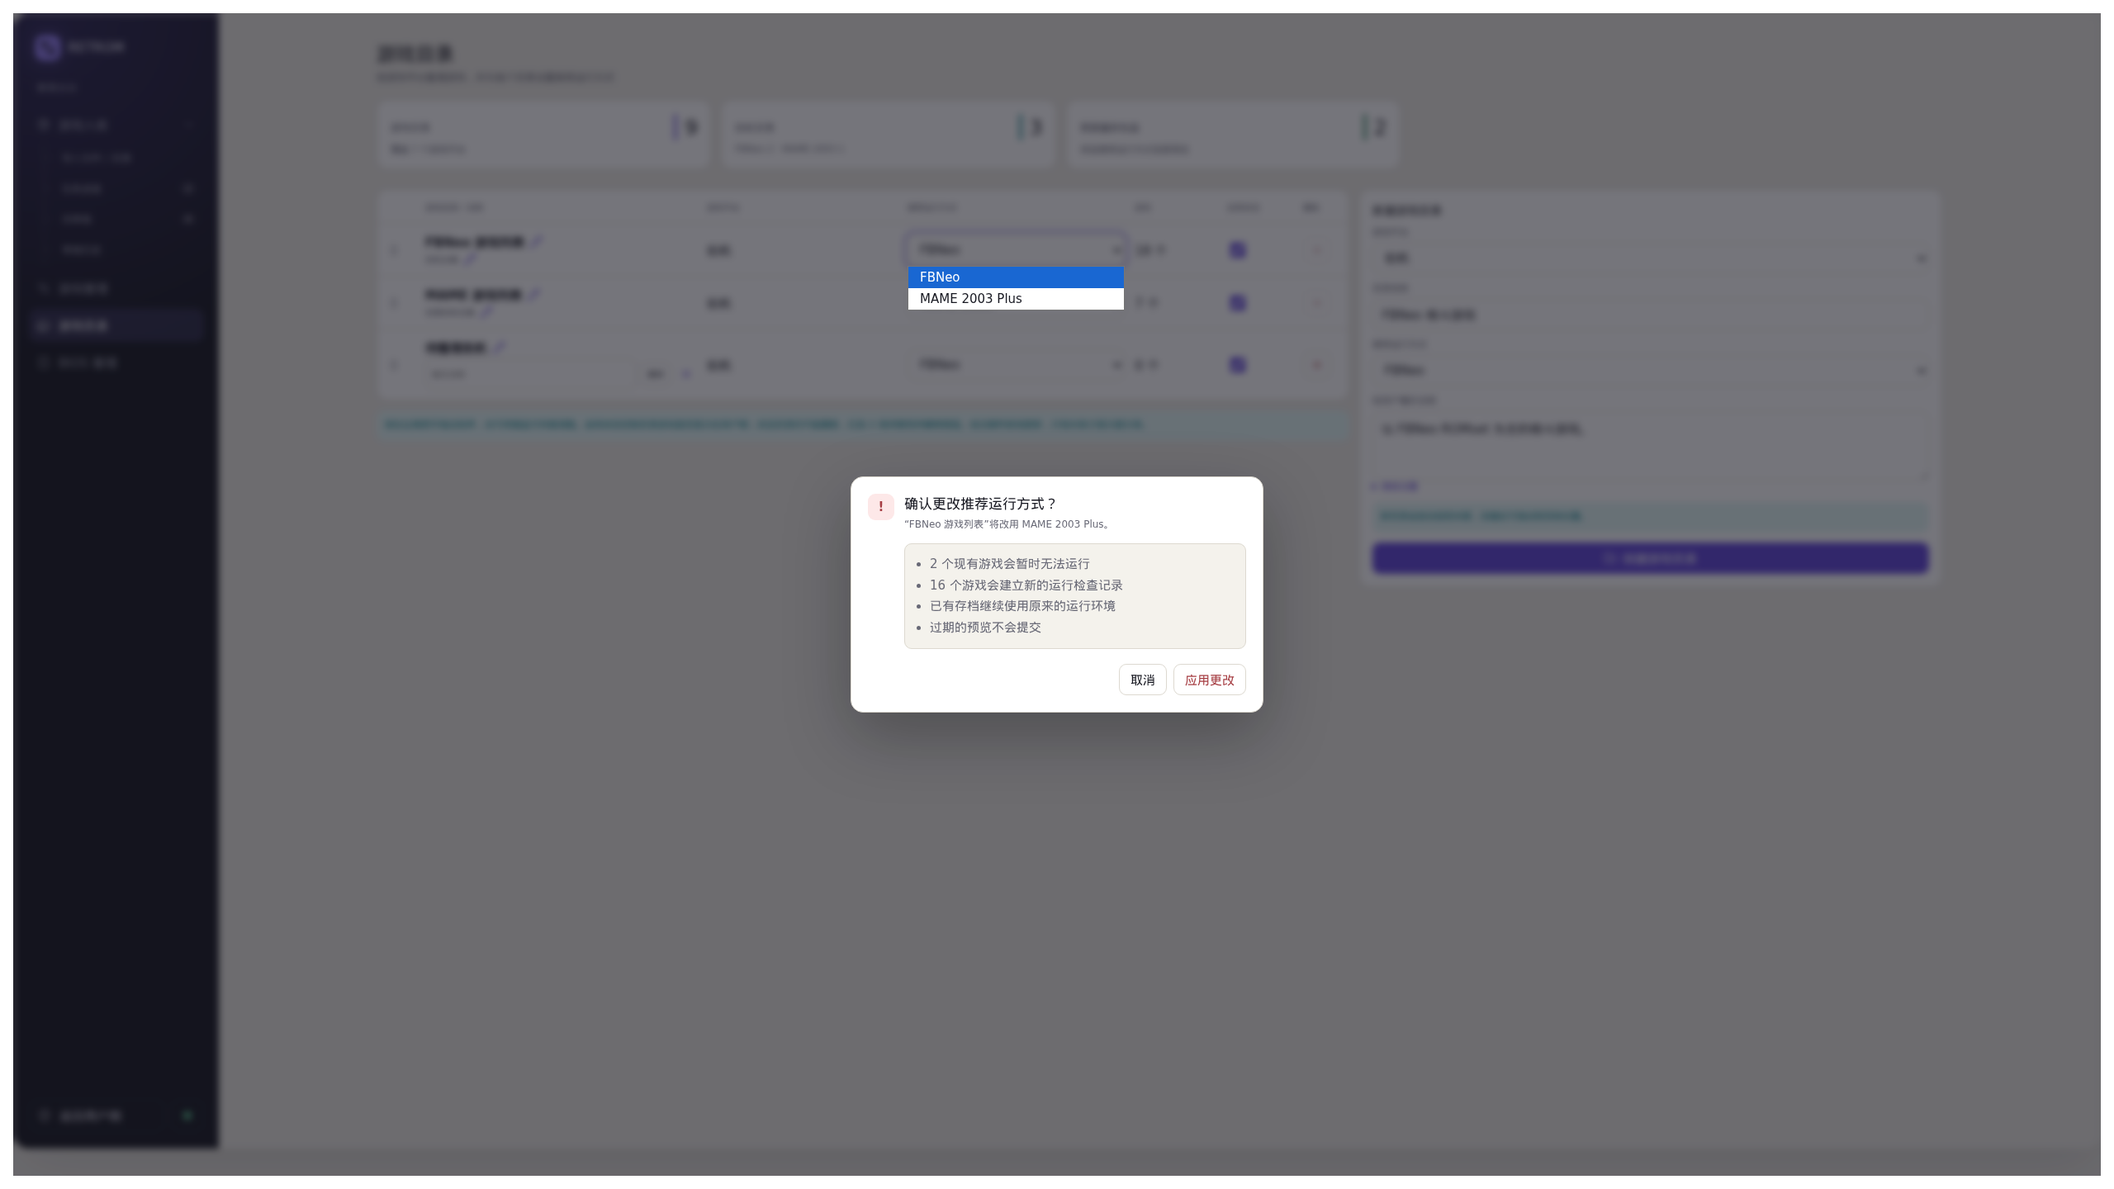
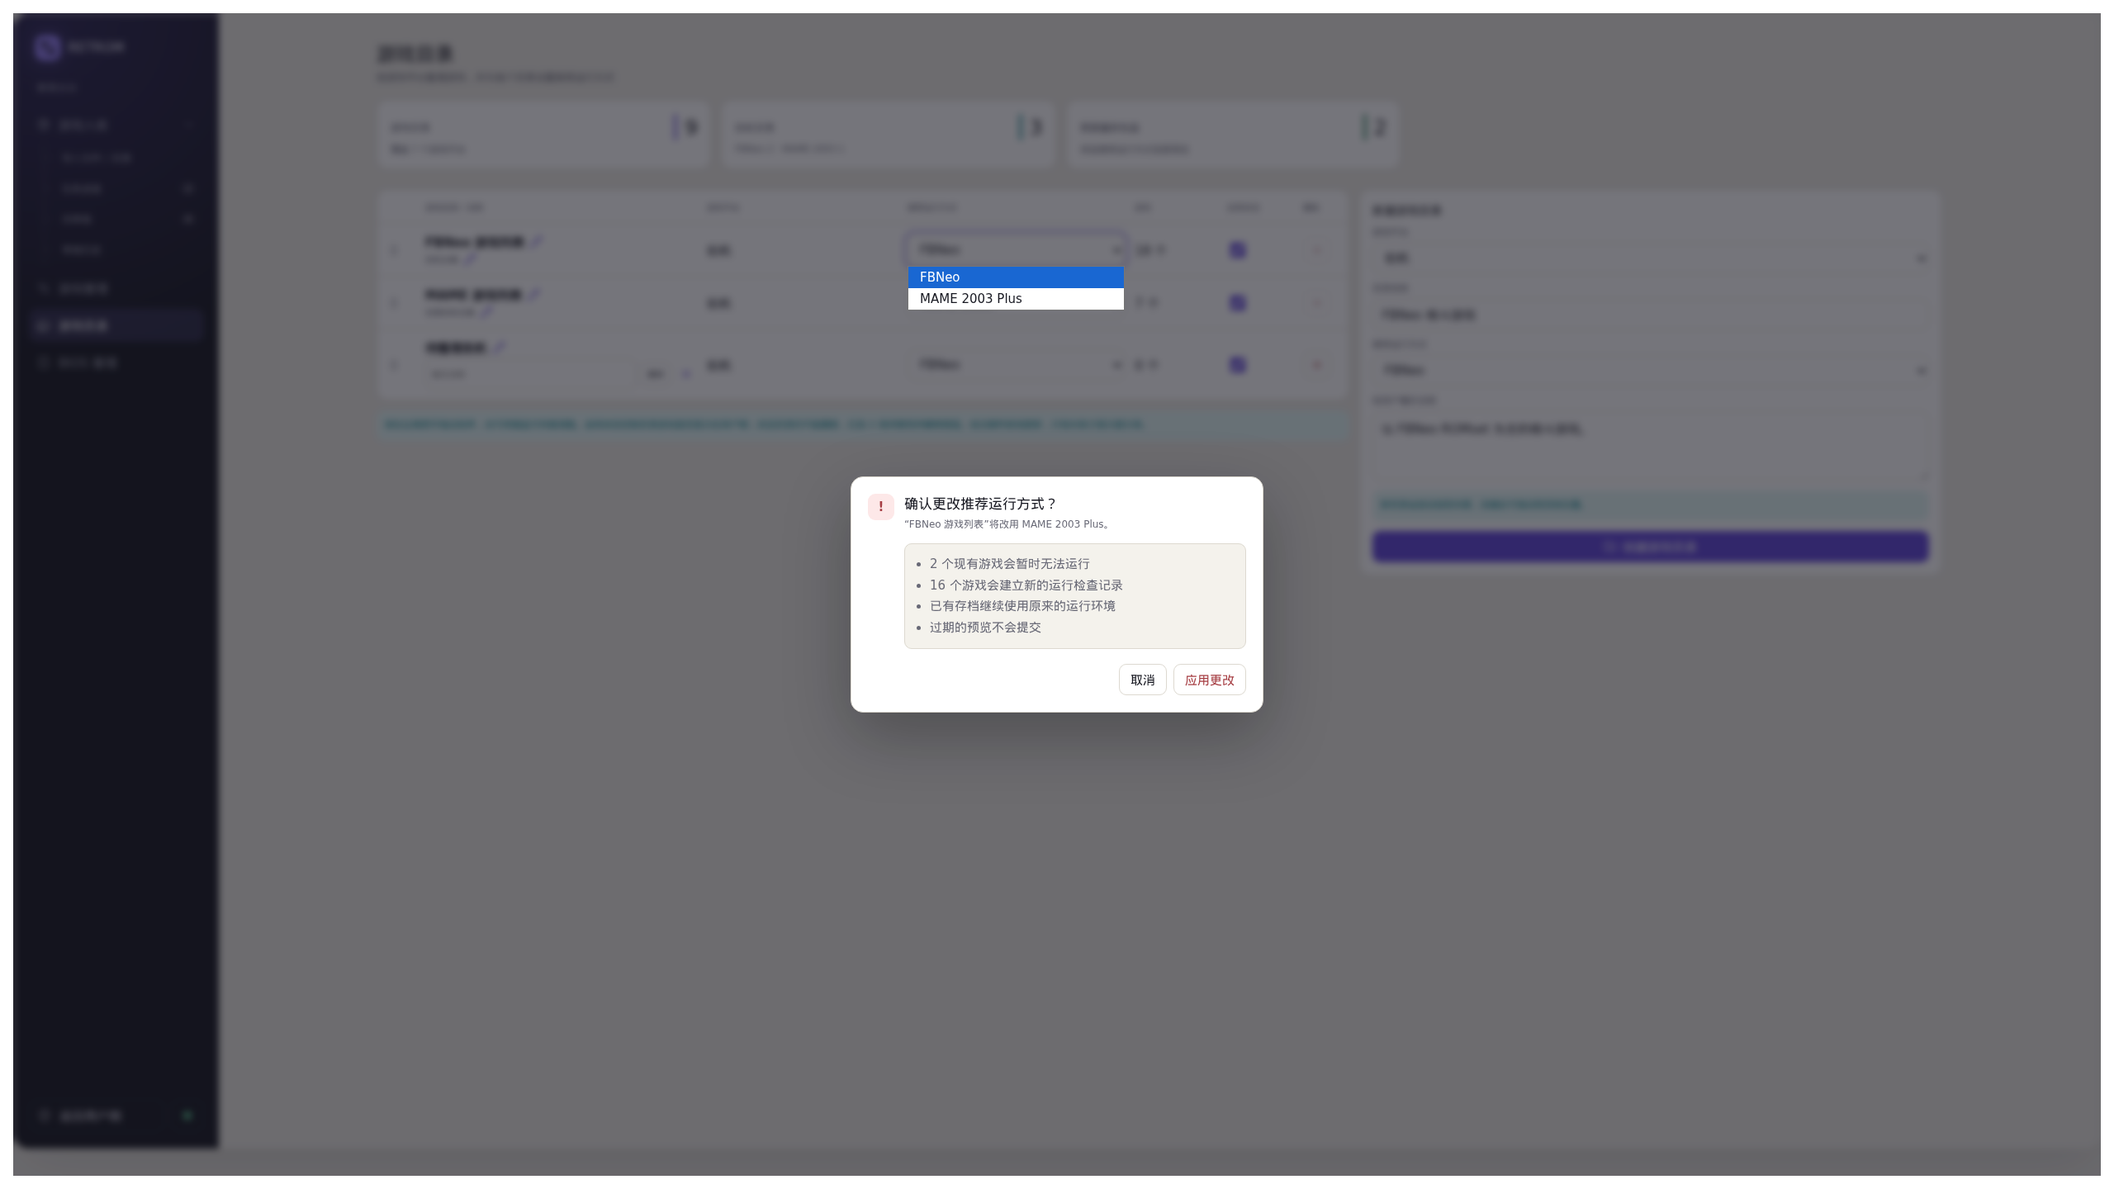
chore: remove netflag

Changed region(s): [[0.6562, 0.4062, 0.9062, 0.5]]

diff --git a/docs/design/retrom-ui-review.html b/docs/design/retrom-ui-review.html
@@ -1287,7 +1287,7 @@
             &lt;/div&gt;
             &lt;div class=&quot;rt-setting-note&quot;&gt;按住左侧把手拖动排序，也可用键盘方向键调整。启用状态控制目录游戏是否显示在用户侧；非空目录仍不能删除，红色 X 保持禁用并解释原因。成功操作就地更新，只有失败才显示提示条。&lt;/div&gt;
           &lt;/div&gt;
-          &lt;div class=&quot;rt-panel rt-import-settings&quot;&gt;&lt;h3&gt;新建游戏目录&lt;/h3&gt;&lt;label class=&quot;rt-field&quot;&gt;&lt;span class=&quot;rt-label&quot;&gt;游戏平台&lt;/span&gt;&lt;select class=&quot;rt-select&quot;&gt;&lt;option&gt;街机&lt;/option&gt;&lt;option&gt;MS-DOS&lt;/option&gt;&lt;option&gt;NES / Famicom&lt;/option&gt;&lt;/select&gt;&lt;/label&gt;&lt;label class=&quot;rt-field&quot;&gt;&lt;span class=&quot;rt-label&quot;&gt;目录名称&lt;/span&gt;&lt;input class=&quot;rt-input&quot; value=&quot;FBNeo 格斗游戏&quot;&gt;&lt;/label&gt;&lt;label class=&quot;rt-field&quot;&gt;&lt;span class=&quot;rt-label&quot;&gt;推荐运行方式&lt;/span&gt;&lt;select class=&quot;rt-select&quot;&gt;&lt;option&gt;FBNeo&lt;/option&gt;&lt;option&gt;MAME 2003 Plus&lt;/option&gt;&lt;option&gt;MAME 2003&lt;/option&gt;&lt;/select&gt;&lt;/label&gt;&lt;label class=&quot;rt-field&quot;&gt;&lt;span class=&quot;rt-label&quot;&gt;给用户看的说明&lt;/span&gt;&lt;textarea class=&quot;rt-textarea&quot;&gt;以 FBNeo ROMset 为主的格斗游戏。&lt;/textarea&gt;&lt;/label&gt;&lt;details class=&quot;rt-advanced&quot;&gt;&lt;summary&gt;高级设置&lt;/summary&gt;&lt;label class=&quot;rt-field&quot;&gt;&lt;span class=&quot;rt-label&quot;&gt;网址标识（自动生成）&lt;/span&gt;&lt;input class=&quot;rt-input&quot; value=&quot;fbneo-fighting-games&quot;&gt;&lt;/label&gt;&lt;/details&gt;&lt;div class=&quot;rt-setting-note&quot;&gt;新目录会自动放到末尾，创建后可拖动到目标位置。&lt;/div&gt;&lt;button type=&quot;button&quot; class=&quot;rt-button rt-button-primary rt-launch-button&quot;&gt;&lt;i data-lucide=&quot;folder-plus&quot; aria-hidden=&quot;true&quot;&gt;&lt;/i&gt;创建游戏目录&lt;/button&gt;&lt;/div&gt;
+          &lt;div class=&quot;rt-panel rt-import-settings&quot;&gt;&lt;h3&gt;新建游戏目录&lt;/h3&gt;&lt;label class=&quot;rt-field&quot;&gt;&lt;span class=&quot;rt-label&quot;&gt;游戏平台&lt;/span&gt;&lt;select class=&quot;rt-select&quot;&gt;&lt;option&gt;街机&lt;/option&gt;&lt;option&gt;MS-DOS&lt;/option&gt;&lt;option&gt;NES / Famicom&lt;/option&gt;&lt;/select&gt;&lt;/label&gt;&lt;label class=&quot;rt-field&quot;&gt;&lt;span class=&quot;rt-label&quot;&gt;目录名称&lt;/span&gt;&lt;input class=&quot;rt-input&quot; value=&quot;FBNeo 格斗游戏&quot;&gt;&lt;/label&gt;&lt;label class=&quot;rt-field&quot;&gt;&lt;span class=&quot;rt-label&quot;&gt;推荐运行方式&lt;/span&gt;&lt;select class=&quot;rt-select&quot;&gt;&lt;option&gt;FBNeo&lt;/option&gt;&lt;option&gt;MAME 2003 Plus&lt;/option&gt;&lt;option&gt;MAME 2003&lt;/option&gt;&lt;/select&gt;&lt;/label&gt;&lt;label class=&quot;rt-field&quot;&gt;&lt;span class=&quot;rt-label&quot;&gt;给用户看的说明&lt;/span&gt;&lt;textarea class=&quot;rt-textarea&quot;&gt;以 FBNeo ROMset 为主的格斗游戏。&lt;/textarea&gt;&lt;/label&gt;&lt;div class=&quot;rt-setting-note&quot;&gt;新目录会自动放到末尾，创建后可拖动到目标位置。&lt;/div&gt;&lt;button type=&quot;button&quot; class=&quot;rt-button rt-button-primary rt-launch-button&quot;&gt;&lt;i data-lucide=&quot;folder-plus&quot; aria-hidden=&quot;true&quot;&gt;&lt;/i&gt;创建游戏目录&lt;/button&gt;&lt;/div&gt;
         &lt;/div&gt;
       &lt;/section&gt;
 

diff --git a/docs/design/retrom-ui-review.fragment.html b/docs/design/retrom-ui-review.fragment.html
@@ -1264,7 +1264,7 @@
             </div>
             <div class="rt-setting-note">按住左侧把手拖动排序，也可用键盘方向键调整。启用状态控制目录游戏是否显示在用户侧；非空目录仍不能删除，红色 X 保持禁用并解释原因。成功操作就地更新，只有失败才显示提示条。</div>
           </div>
-          <div class="rt-panel rt-import-settings"><h3>新建游戏目录</h3><label class="rt-field"><span class="rt-label">游戏平台</span><select class="rt-select"><option>街机</option><option>MS-DOS</option><option>NES / Famicom</option></select></label><label class="rt-field"><span class="rt-label">目录名称</span><input class="rt-input" value="FBNeo 格斗游戏"></label><label class="rt-field"><span class="rt-label">推荐运行方式</span><select class="rt-select"><option>FBNeo</option><option>MAME 2003 Plus</option><option>MAME 2003</option></select></label><label class="rt-field"><span class="rt-label">给用户看的说明</span><textarea class="rt-textarea">以 FBNeo ROMset 为主的格斗游戏。</textarea></label><div class="rt-setting-note">网址标识由系统生成；新目录会自动放到末尾，创建后可拖动到目标位置。</div><button type="button" class="rt-button rt-button-primary rt-launch-button"><i data-lucide="folder-plus" aria-hidden="true"></i>创建游戏目录</button></div>
+          <div class="rt-panel rt-import-settings"><h3>新建游戏目录</h3><label class="rt-field"><span class="rt-label">游戏平台</span><select class="rt-select"><option>街机</option><option>MS-DOS</option><option>NES / Famicom</option></select></label><label class="rt-field"><span class="rt-label">目录名称</span><input class="rt-input" value="FBNeo 格斗游戏"></label><label class="rt-field"><span class="rt-label">推荐运行方式</span><select class="rt-select"><option>FBNeo</option><option>MAME 2003 Plus</option><option>MAME 2003</option></select></label><label class="rt-field"><span class="rt-label">给用户看的说明</span><textarea class="rt-textarea">以 FBNeo ROMset 为主的格斗游戏。</textarea></label><div class="rt-setting-note">新目录会自动放到末尾，创建后可拖动到目标位置。</div><button type="button" class="rt-button rt-button-primary rt-launch-button"><i data-lucide="folder-plus" aria-hidden="true"></i>创建游戏目录</button></div>
         </div>
       </section>
 

diff --git a/internal/httpapi/platform_handlers.go b/internal/httpapi/platform_handlers.go
@@ -24,6 +24,7 @@ import (
 var (
 	errPlatformInstanceOrderInvalid = errors.New("invalid platform instance order")
 	errPlatformInstanceOrderVersion = errors.New("platform instance order version conflict")
+	errPlatformSlugExhausted        = errors.New("platform slug space exhausted")
 )
 
 type createPlatformInstanceRequest struct {
@@ -143,7 +144,7 @@ func nextPlatformSlug(ctx context.Context, transaction *sql.Tx, platformID, name
 			return candidate, nil
 		}
 	}
-	return "", errors.New("platform slug space exhausted")
+	return "", errPlatformSlugExhausted
 }
 
 //nolint:funlen // Request validation, uniqueness checks, creation, and audit write share one transaction.

diff --git a/internal/httpapi/platform_handlers_test.go b/internal/httpapi/platform_handlers_test.go
@@ -17,7 +17,6 @@ func TestPlatformSlugBaseUsesReadableASCIIOrPlatformFallback(t *testing.T) {
 		{name: "GBA 游戏", platformID: "gba", want: "gba"},
 	}
 	for _, test := range tests {
-		test := test
 		t.Run(test.name, func(t *testing.T) {
 			t.Parallel()
 			if got := platformSlugBase(test.name, test.platformID); got != test.want {

diff --git a/docs/http-api-contract.md b/docs/http-api-contract.md
@@ -298,7 +298,7 @@ OpenAPI 中 `putAdminUploadPart`、`postRuntimeSaveState` 与 `putRuntimePersist
 
 ### 9.1 管理写入的最小请求契约
 
-以下字段名与语义是 OpenAPI 实施基线。未列字段一律未知字段拒绝；PATCH 中“未出现”表示保持不变，显式 `null` 只允许清空表中标为可空的字段。字符串先验证 UTF-8，再按字段执行 trim：游戏 title/平台目录 name/`confirmTitle` 为 1–200 Unicode code points，SaveState name 为 1–120，developer/publisher/genre 为 0–200，description 为 0–10,000，reason 为 1–500；slug 为 1–80 ASCII chars 并满足领域 regex。年份为 `1950..当前 UTC 年+1`，players 为 `1..64`。所有引用 ID 必须存在、类型正确且处于该操作允许状态。
+以下字段名与语义是 OpenAPI 实施基线。未列字段一律未知字段拒绝；PATCH 中“未出现”表示保持不变，显式 `null` 只允许清空表中标为可空的字段。字符串先验证 UTF-8，再按字段执行 trim：游戏 title/平台目录 name/`confirmTitle` 为 1–200 Unicode code points，SaveState name 为 1–120，developer/publisher/genre 为 0–200，description 为 0–10,000，reason 为 1–500。平台目录 slug 不接受客户端输入，由服务端生成 1–80 ASCII chars 的领域合法值。年份为 `1950..当前 UTC 年+1`，players 为 `1..64`。所有引用 ID 必须存在、类型正确且处于该操作允许状态。
 
 | 操作 | JSON body / 必需 header | 成功语义 |
 | --- | --- | --- |
@@ -316,7 +316,7 @@ OpenAPI 中 `putAdminUploadPart`、`postRuntimeSaveState` 与 `putRuntimePersist
 | 应用重新刮削候选 | `POST /admin/games/{gameId}/scrape-candidates/{candidateId}/apply`：`{"fields":["title",...],"selectedAssets":{"coverCandidateAssetId":null|string,"backgroundCandidateAssetId":null|string,"screenshotCandidateAssetIds":[]}}` + `If-Match` + `Idempotency-Key` | candidate/asset 必须属于直接引用 Game current ContentRevision、并按 `(created_at_ms,id)` 确定的最新 COMPLETED HASHEOUS run，且每个选中 asset 为 READY；fields 只能是 metadata 白名单且不重复。复制未选字段/媒体，创建 RESCRAPE_APPLY MetadataRevision 和完整 Asset 清单。 |
 | 游戏移动预览 / 提交 | preview：`{"targetPlatformInstanceId":"..."}` + Game `If-Match` + `Idempotency-Key`；commit：`{"targetPlatformInstanceId":"...","impactDigest":"...","confirmBlocked":false}` + 同一 Game 当前 `If-Match` + 新 `Idempotency-Key` | 只允许同基础平台且目标不能等于当前目录。目标默认 CoreArtifact 对 Game current ContentRevision 缺少当前输入结果时，preview 创建/复用共享 `VARIANT_REVALIDATE` Job，返回 `202 {"status":"VALIDATION_PENDING","jobId":"...","retryAfterMs":1000}`，不返回 digest、不移动；Job 终态后客户端用新 key 重新 preview。已有当前 READY/BLOCKED/INCOMPATIBLE 结果时返回 `200` 影响与 digest，不写业务状态。commit 重算 digest/version/结果；有 blocker 仅在 `confirmBlocked=true` 时移动，否则 `422 MOVE_TARGET_CORE_BLOCKED`。移动只更新 Game 归属/version并写审计，不删除或改写 Variant/revision/save。 |
 | 游戏软删除 | `DELETE /admin/games/{gameId}`：`{"confirmTitle":"当前完整标题"}` + Game `If-Match` + `Idempotency-Key` | 管理详情必须先返回只读 `deleteImpact={saveStateCount,reviewEventCount,activeLaunchCount}` 供确认。提交只接受 PUBLISHED Game；trim 后的 `confirmTitle` 必须与当前 MetadataRevision 的已存 title 逐 code point 完全相等，否则 `422 GAME_DELETE_CONFIRMATION_MISMATCH`。同一短事务把 Game 置 DELETED、写 `deletedAtMs`、递增 version、撤销该 Game 的非终态 LaunchSession 并写 AuditEvent；返回 `204` 和新 ETag，不级联删除 metadata/content/variant/save/review/blob。相同 key 重放原 204；不同 key 再删已删除 Game 返回 `409 GAME_ALREADY_DELETED`。 |
-| 平台目录创建 | `{"platformId":"arcade","defaultCoreId":"fbneo","name":"...","slug":"...","description":"","sortOrder":0}` + `Idempotency-Key` | 创建 enabled/version=1 目录；slug 由服务端规范化后验证且永不复用。 |
+| 平台目录创建 | `{"platformId":"arcade","defaultCoreId":"fbneo","name":"...","description":"","sortOrder":0}` + `Idempotency-Key` | 创建 enabled/version=1 目录；服务端从 name 生成 slug，冲突时追加最小可用数字后缀，且软删除后永不复用。 |
 | 平台目录普通修改 | `PATCH /admin/platform-instances/{id}` + `If-Match`；仅可含 name/description/sortOrder/enabled | 不允许 platformId/slug/defaultCoreId；`enabled=false` 允许非空目录，用于从用户侧首页、游戏库、详情、存档与启动入口隐藏该目录游戏，管理端记录仍保留。删除仍要求目录为空。 |
 | 平台目录排序 | `PUT /admin/platform-instances/order`：`{"items":[{"id":"uuid","version":1},...]}` | `items` 必须恰好包含全部未删除目录且 ID 不重复；在同一短事务按数组顺序写 `sortOrder=100,200,...`、逐项校验 version 并递增 version/写审计。目录集合变化返回 `409 PLATFORM_INSTANCE_ORDER_STALE`，任一版本变化返回 `409 VERSION_CONFLICT`，不得部分排序。 |
 | 默认核心预览 / 提交 | preview：`{"coreId":"...","cursor":null|string,"limit":100}` + `If-Match`；commit：`{"coreId":"...","impactDigest":"...","confirmBlocked":false}` + 当前 `If-Match` + `Idempotency-Key` | preview 不写状态且免 Idempotency-Key；commit 原子修改目录 version 并写 AuditEvent，不重写存档/revision。 |

diff --git a/docs/data-model.md b/docs/data-model.md
@@ -26,7 +26,7 @@
 | `platform_cores` | `(platform_id, core_id) PK`、`enabled`；默认核心和 Variant 的 core 必须引用 enabled 关系。 |
 | `platform_instances` | `id PK`、`platform_id`、`default_core_id`、`name`、规范化 `slug`、`description`、`sort_order`、`enabled`、`version`、`created_at_ms/updated_at_ms`、可空 `deleted_at_ms`；`UNIQUE(platform_id, slug)`。复合 FK 保证默认 core 存在于 PlatformCore，trigger/service 额外保证其 enabled。 |
 
-`slug` 创建时转为小写，必须匹配 `^[a-z0-9]+(?:-[a-z0-9]+)*$`，创建后不可改；展示名可改。平台目录的 `platform_id` 创建后不可改。
+`slug` 由服务端创建时从展示名生成小写 ASCII 标识，冲突时追加数字后缀，必须匹配 `^[a-z0-9]+(?:-[a-z0-9]+)*$` 且不超过 80 byte；创建后不可改，软删除也不释放。展示名可改。平台目录的 `platform_id` 创建后不可改。
 
 `core_artifacts.provenance_json` 固定为 `{"schemaVersion":1,"dependencyManifestSha256":"<64 lowercase hex>","manifestEntryPointer":"/emulatorjs/selected_core_artifacts/<index>","sourceAssociationStatus":"EXACT_COMMIT|EMBEDDED_VERSION|INFERRED_BUILD_TIME|RELEASE_ONLY","sourceUrl":null|string,"notes":[]}`；notes 只存简短证据说明，不存宿主路径。`source_commit` 只在证据能锁定 40 位 Git commit 时填写，RELEASE_ONLY 必须为空。`compatibility_config_json` 固定为 `{"schemaVersion":1,"requestedArtifactBasename":"<ASCII basename>","canvasResizePolicy":"NONE|ON_GAME_START_TO_CSS_PIXELS"}`；basename 是该 artifact 所属 EmulatorJS 版本 loader 实际请求的 key，不一定等于 override 文件 basename。v4.2.3 只有 `mame2003` 为 `ON_GAME_START_TO_CSS_PIXELS`，适配器在 `EJS_onGameStart` 把 canvas `width/height` 各设为当时正整数 `clientWidth/clientHeight`，其余为 NONE；后续版本必须由升级验收给出自己的精确值，不允许在前端按 core ID 另写隐式特判。Runtime path override 由 `requestedArtifactBasename → /runtime/emulatorjs/<emulatorjs_version>/<relative_path>` 唯一派生。
 

diff --git a/docs/platform-instance.md b/docs/platform-instance.md
@@ -117,7 +117,7 @@ CREATE TABLE games (
 );
 ~~~
 
-SQLite 无法仅靠上述外键验证 `platform_cores.enabled = 1` 或“GameVariant 核心属于 Game 间接关联的平台”。两条规则必须同时由服务层事务和数据库触发器保护，并有 migration/集成测试覆盖，不能只依赖前端下拉框。`slug` 创建时规范为小写并匹配 `^[a-z0-9]+(?:-[a-z0-9]+)*$`，之后不可修改。
+SQLite 无法仅靠上述外键验证 `platform_cores.enabled = 1` 或“GameVariant 核心属于 Game 间接关联的平台”。两条规则必须同时由服务层事务和数据库触发器保护，并有 migration/集成测试覆盖，不能只依赖前端下拉框。`slug` 由服务端从展示名称生成小写 ASCII 标识；名称无法产生 ASCII 单词时回退为 `<platform_id>-library`，同一基础平台发生冲突时追加从 `-2` 开始的最小可用序号。最终值匹配 `^[a-z0-9]+(?:-[a-z0-9]+)*$`、最长 80 byte，创建后不可修改。
 
 所有其他时间点与时长字段遵循 [存储与数据库设计](./storage-and-database.md) 的 Unix 毫秒规则，不使用 TEXT 时间。
 
@@ -198,7 +198,7 @@ SQLite 无法仅靠上述外键验证 `platform_cores.enabled = 1` 或“GameVar
 ### 创建
 
 - 先选择基础平台，再选择该平台已启用的默认核心。
-- 名称在站点内可以重复；<code>(platform_id, slug)</code> 必须唯一，选择器同时显示基础平台消除歧义。
+- 名称在站点内可以重复；创建请求不接收 slug，服务端在事务内生成唯一的 <code>(platform_id, slug)</code>，选择器同时显示基础平台消除歧义。
 - 空库 bootstrap 必须幂等创建总览文档第 6 节列出的初始平台目录；用户也可在管理后台新增。seed 使用稳定 `(platform_id, slug)`，不得每次启动生成新 UUID 行。
 
 ### 修改默认核心

diff --git a/docs/project-acceptance.md b/docs/project-acceptance.md
@@ -352,8 +352,8 @@ make acceptance-case CASE=<case-id>
 
 - 上限：120 秒。
 - 执行：`make acceptance-case CASE=ACC-PLAT-001`。
-- 流程：为 Arcade 创建 `acc-arcade-fbneo` 并选择 `fbneo`；再尝试选择未关联/停用核心和重复 slug。
-- 通过标准：合法目录创建成功；非法默认核心和重复 `(platform_id, slug)` 被 409/422 与数据库约束拒绝；时刻字段为整数。
+- 流程：为 Arcade 创建名为 `acc-arcade-fbneo` 的目录并选择 `fbneo`；使用相同名称再次创建，随后软删除第一项并第三次使用相同名称；另尝试选择未关联/停用核心。
+- 通过标准：创建请求不包含 slug，合法目录创建成功；服务端依次生成 `acc-arcade-fbneo`、`acc-arcade-fbneo-2`、`acc-arcade-fbneo-3`，不会复用软删除标识；非法默认核心被 422 与数据库约束拒绝；时刻字段为整数。
 - 证据：API 响应和数据库行。
 
 ### ACC-PLAT-002：Game 唯一归属
